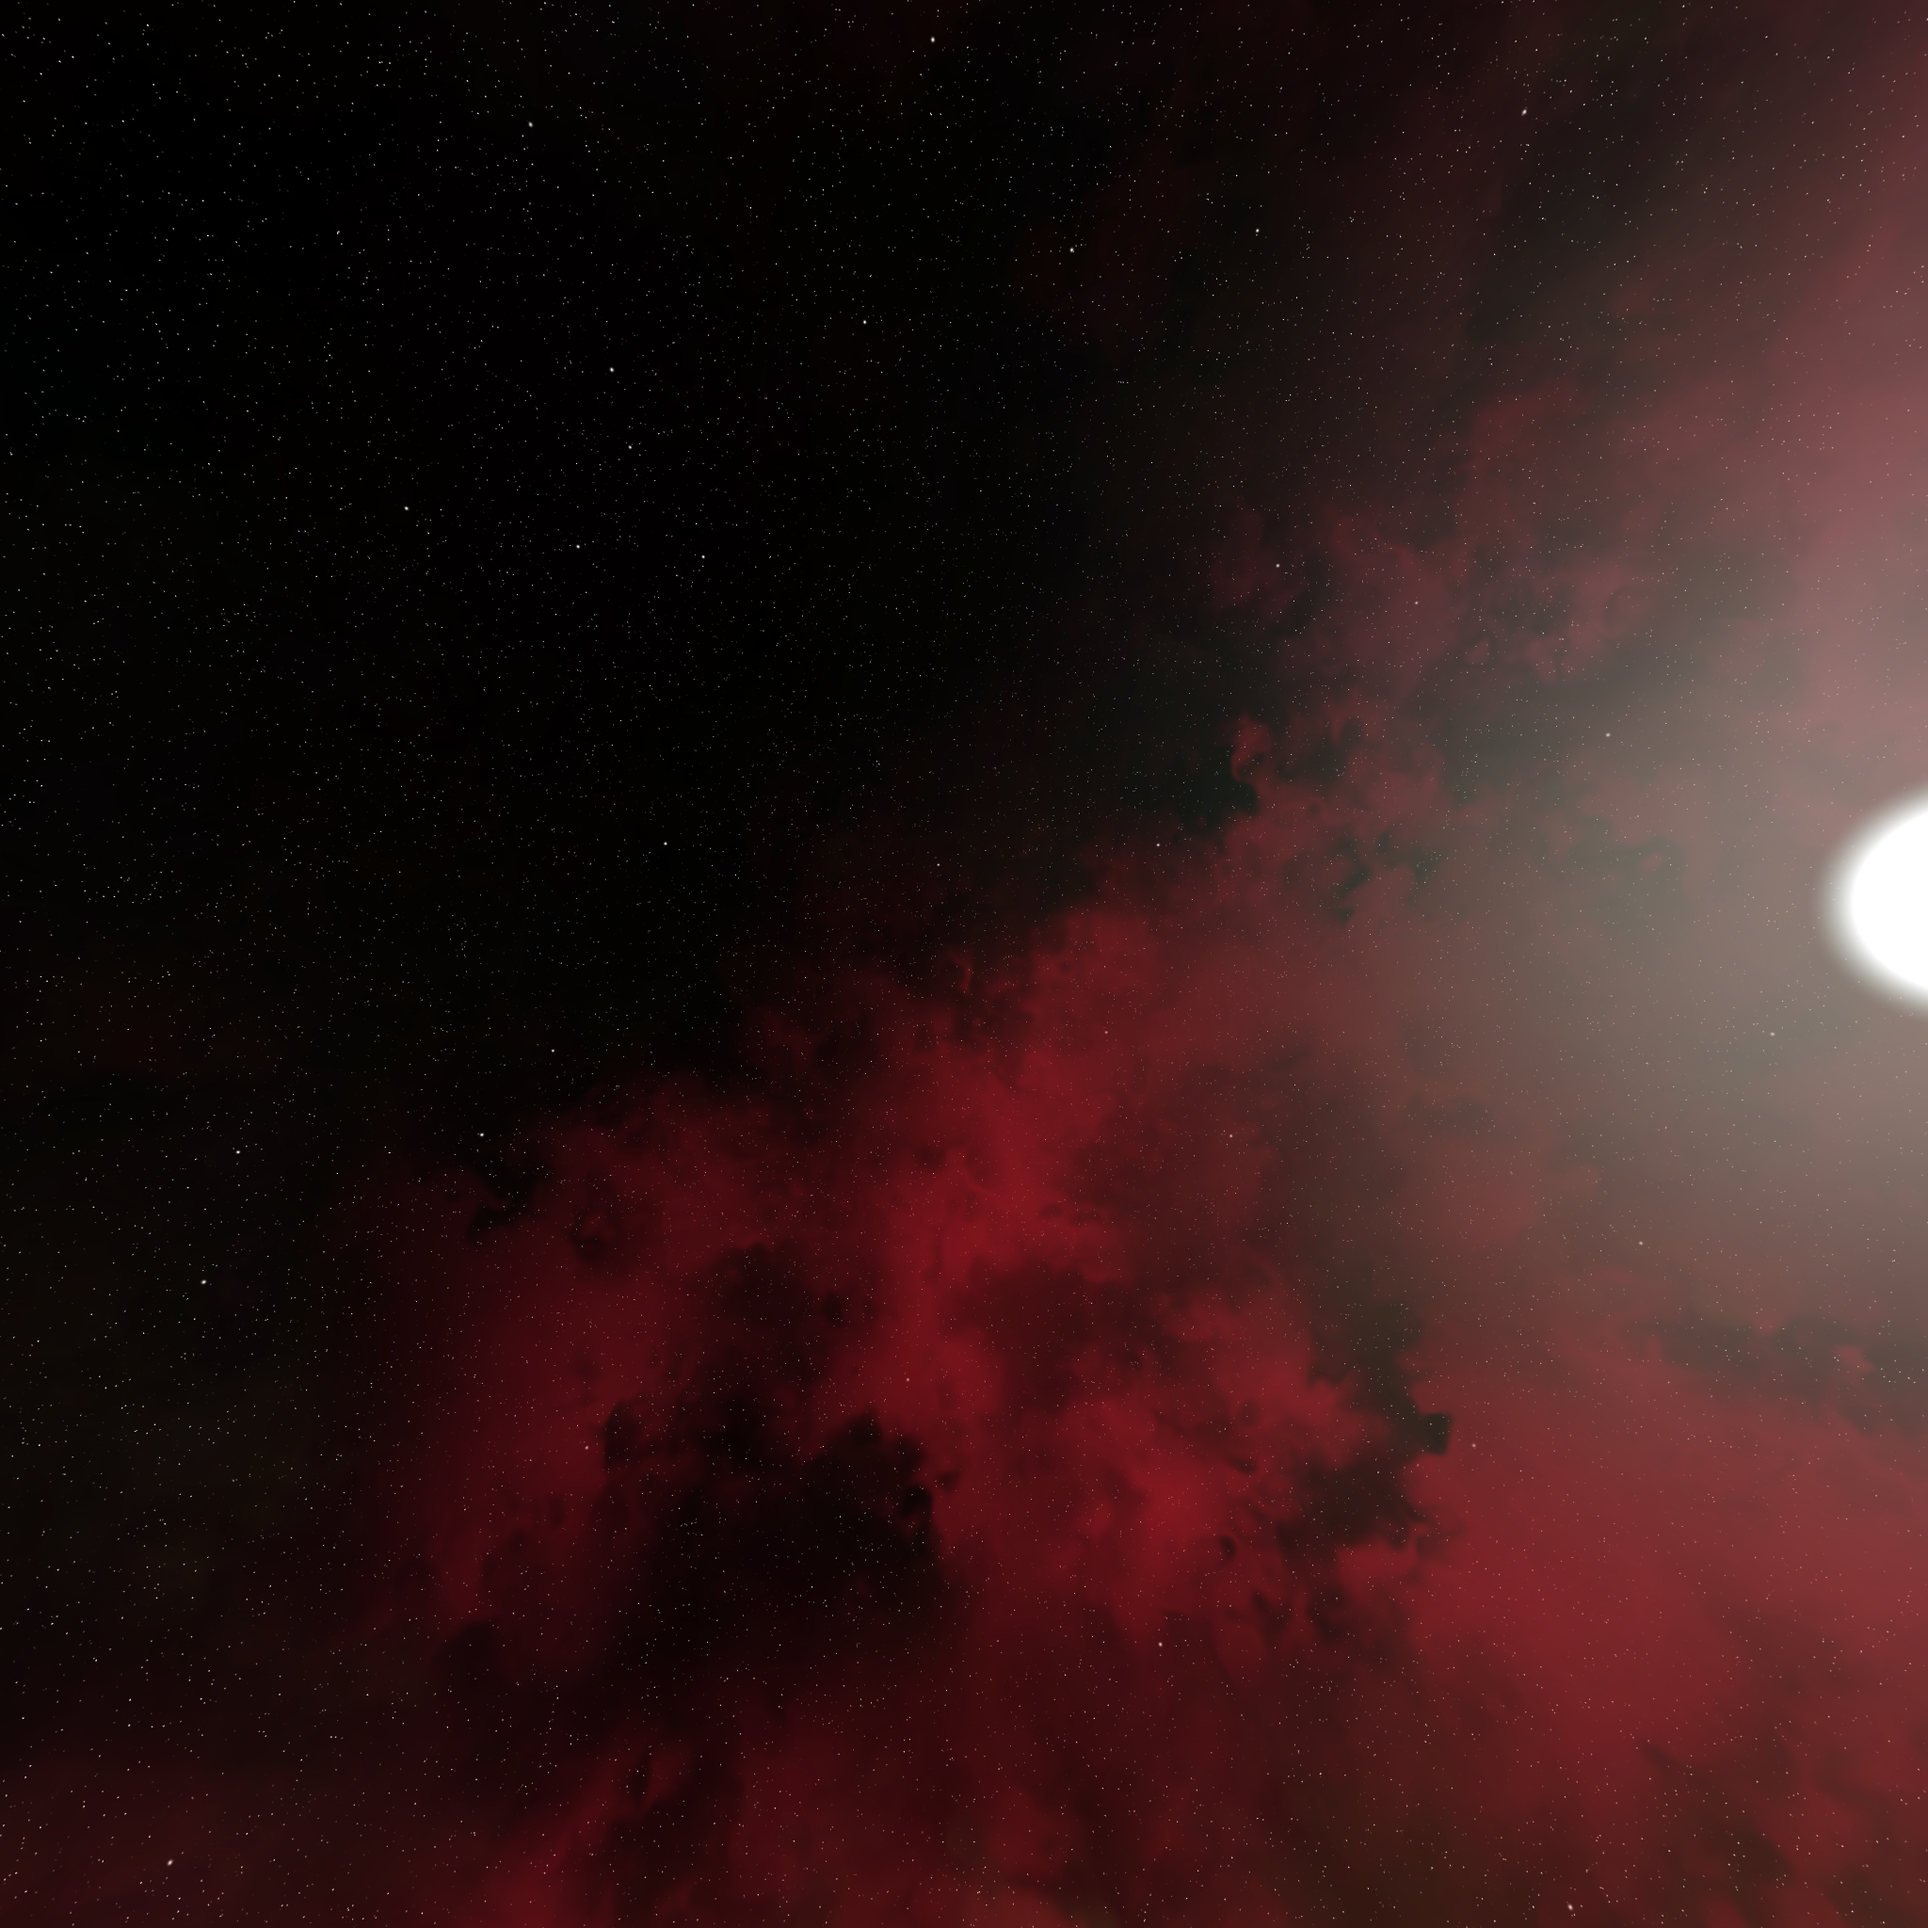
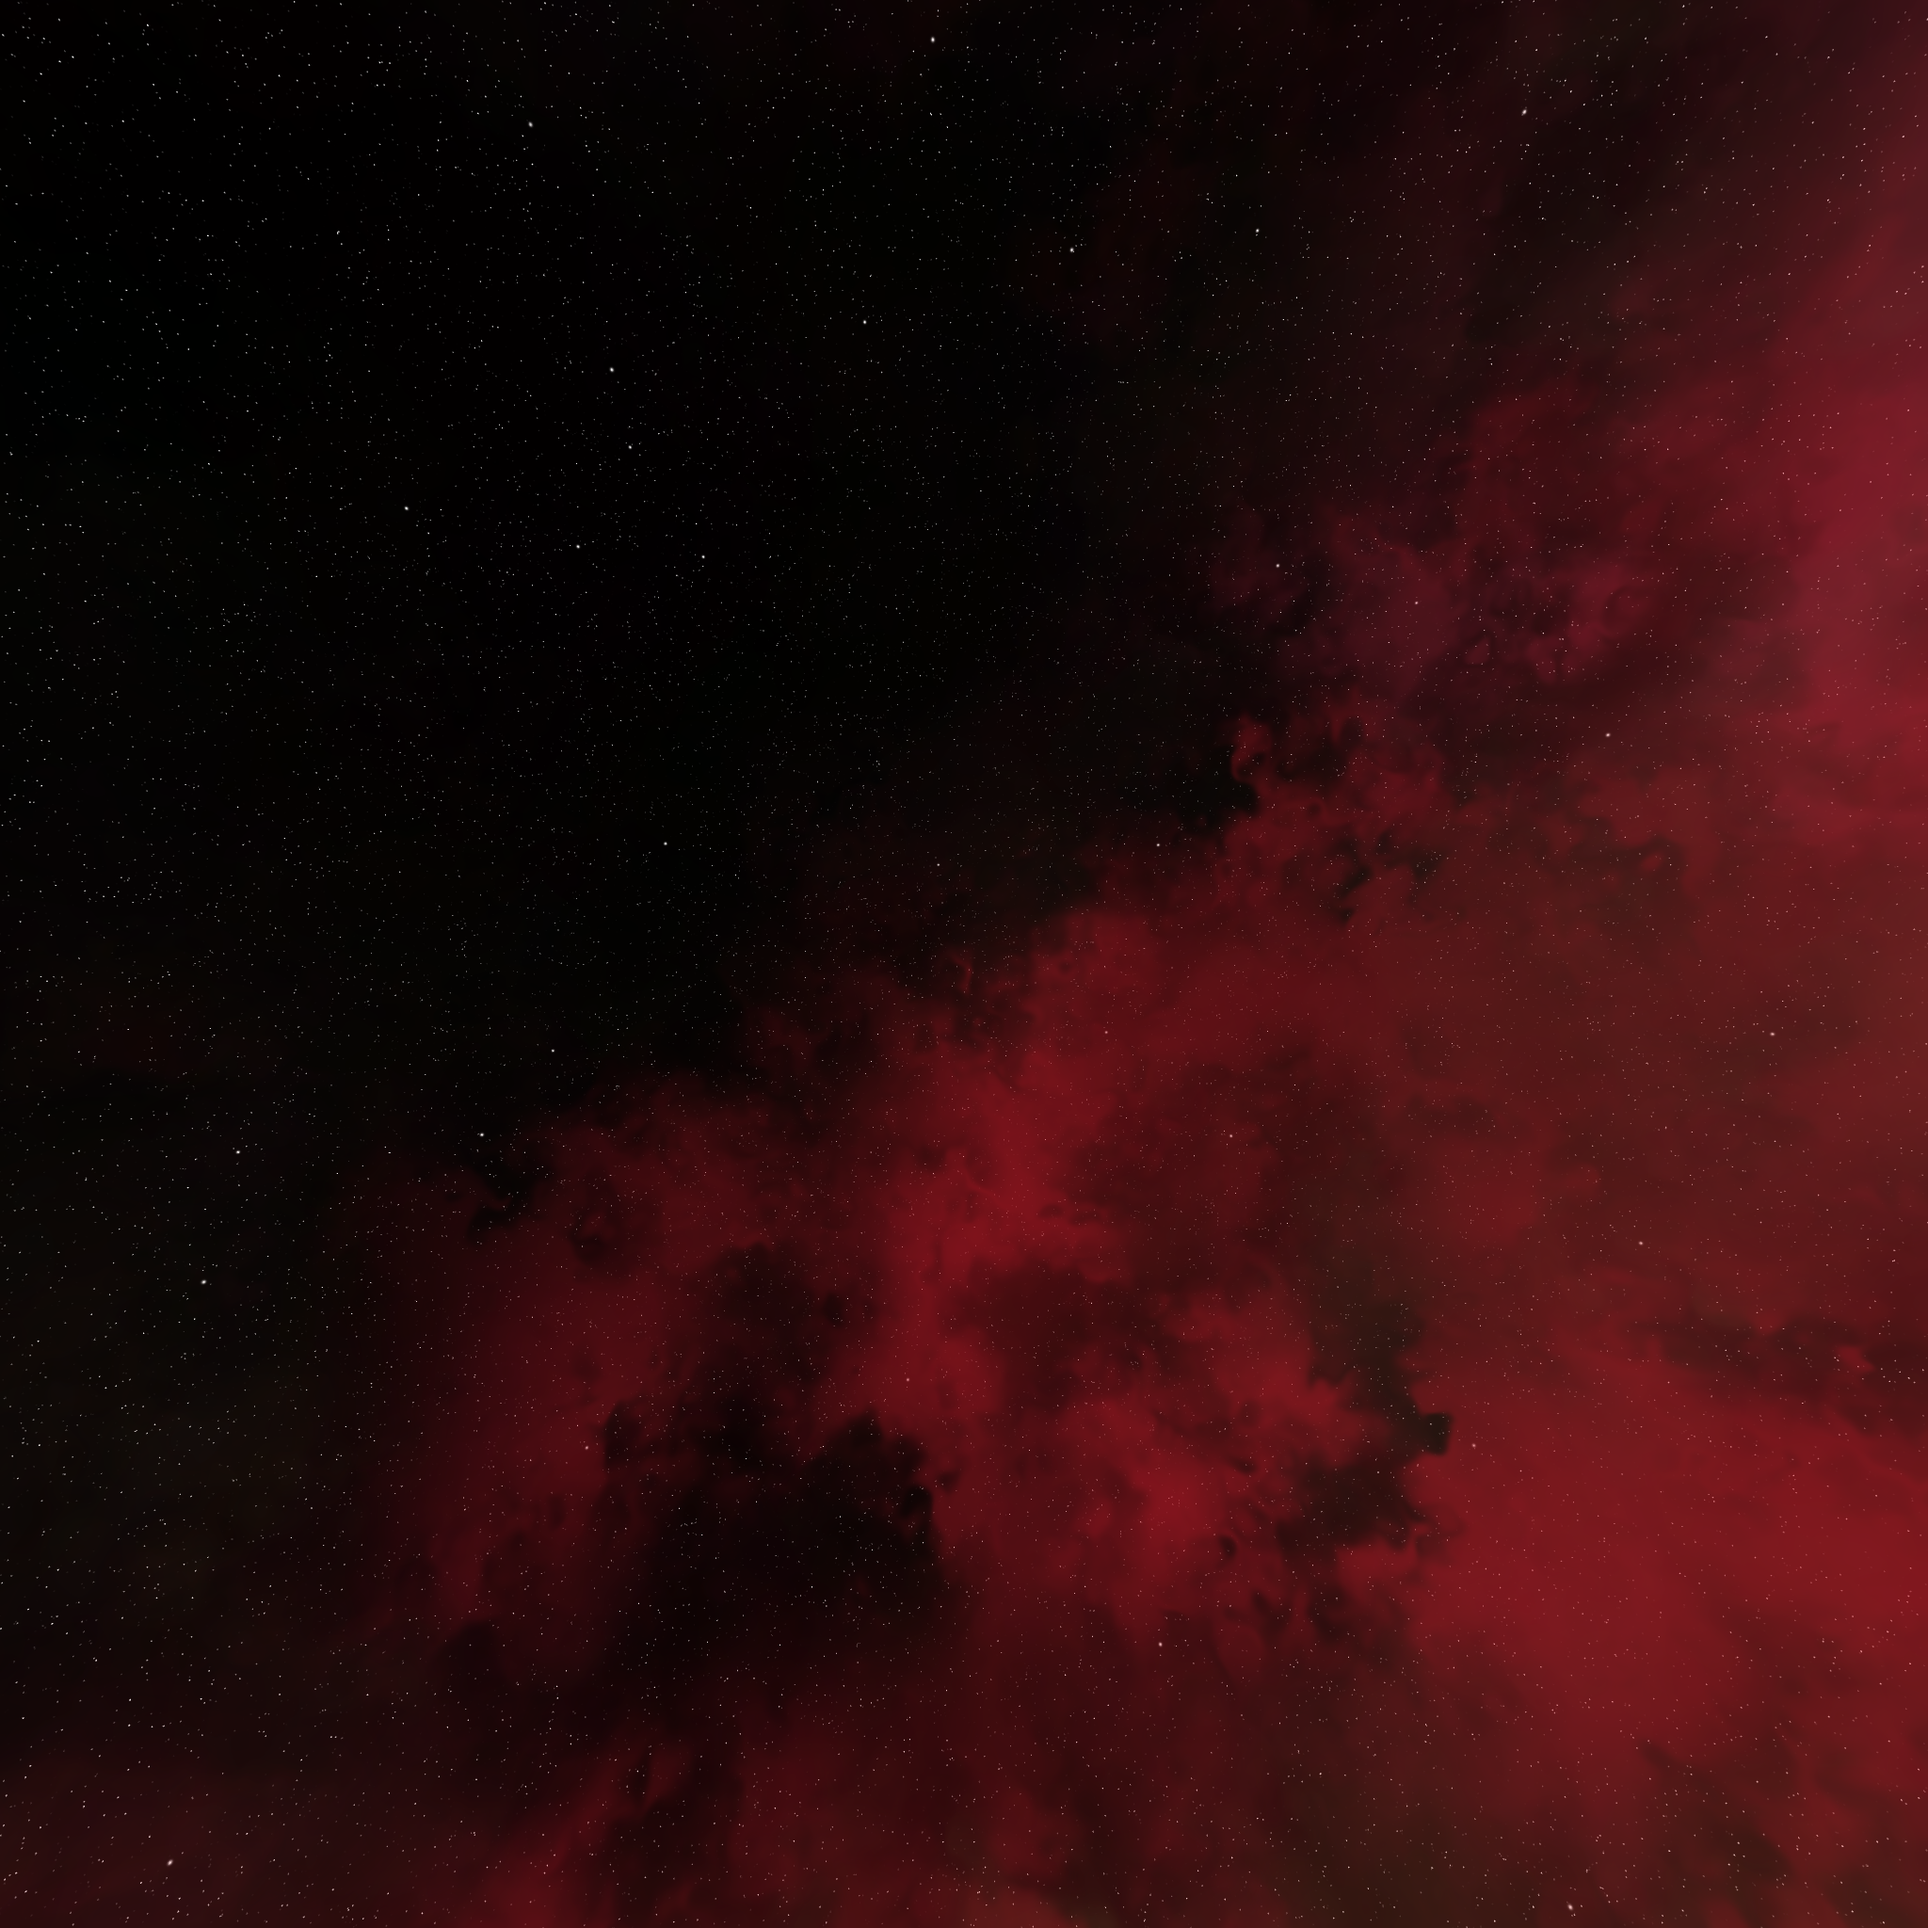
feat: replaced fake star with real mesh

Changed region(s): [[0.625, 0.0625, 1.0, 0.875]]

diff --git a/src/actions.ts b/src/actions.ts
@@ -1,6 +1,7 @@
 import { Clock, Color, PerspectiveCamera, Scene, WebGLRenderer } from 'three';
 import { OrbitControls } from 'three/examples/jsm/controls/OrbitControls';
 import { spaceBox } from './scene/spaceBox.scene';
+import { glowingStar, updateGlowingStar } from './scene/glowingStar.scene';
 import { sunLight } from './scene/sunLight.scene';
 import { spinningPlanet, updateSpinningPlanet } from '@/scene/spinningPlanet.scene';
 import { onResize } from '@/utility/canvasHelper.utility';
@@ -30,7 +31,7 @@ function setup(canvas: HTMLCanvasElement) {
   const [nearPlane, farPlane] = [0.1, 3e3];
 
   camera = new PerspectiveCamera(fieldOfView, aspectRatio, nearPlane, farPlane);
-  camera.position.set(100, 0, 0);
+  camera.position.set(-95, 0, 20);
 
   controls = new OrbitControls(camera, canvas);
   controls.minDistance = 25;
@@ -38,6 +39,7 @@ function setup(canvas: HTMLCanvasElement) {
 
   scene.background = new Color('black');
   scene.add(spaceBox);
+  scene.add(glowingStar);
   scene.add(sunLight);
   scene.add(spinningPlanet);
 
@@ -86,7 +88,10 @@ function animate() {
   }
 
   requestAnimationFrame(animate);
+  updateGlowingStar();
   updateSpinningPlanet({ delta });
+
+  console.log(camera.position);
 }
 
 /* -----------------------------------

diff --git a/src/scene/glowingStar.scene.ts b/src/scene/glowingStar.scene.ts
@@ -1,0 +1,35 @@
+import { Mesh, SphereGeometry } from 'three';
+
+/* -----------------------------------
+ *
+ * Geometry
+ *
+ * -------------------------------- */
+
+const starGeometry = new SphereGeometry(10, 70, 70);
+
+/* -----------------------------------
+ *
+ * Mesh
+ *
+ * -------------------------------- */
+
+const glowingStar = new Mesh(starGeometry);
+
+/* -----------------------------------
+ *
+ * Update
+ *
+ * -------------------------------- */
+
+function updateGlowingStar() {
+  glowingStar.position.set(750, 50, -750);
+}
+
+/* -----------------------------------
+ *
+ * Export
+ *
+ * -------------------------------- */
+
+export { glowingStar, updateGlowingStar };

diff --git a/src/scene/sunLight.scene.ts b/src/scene/sunLight.scene.ts
@@ -1,4 +1,4 @@
-import { Color, DirectionalLight } from 'three';
+import { Color, DirectionalLight, SphereGeometry } from 'three';
 
 /* -----------------------------------
  *
@@ -14,7 +14,7 @@ const sunLight = new DirectionalLight(new Color('#ffffff').convertSRGBToLinear()
  *
  * -------------------------------- */
 
-sunLight.position.set(95, 10, -100);
+sunLight.position.set(750, 50, -750);
 sunLight.castShadow = true;
 sunLight.shadow.mapSize.width = 512;
 sunLight.shadow.mapSize.height = 512;
